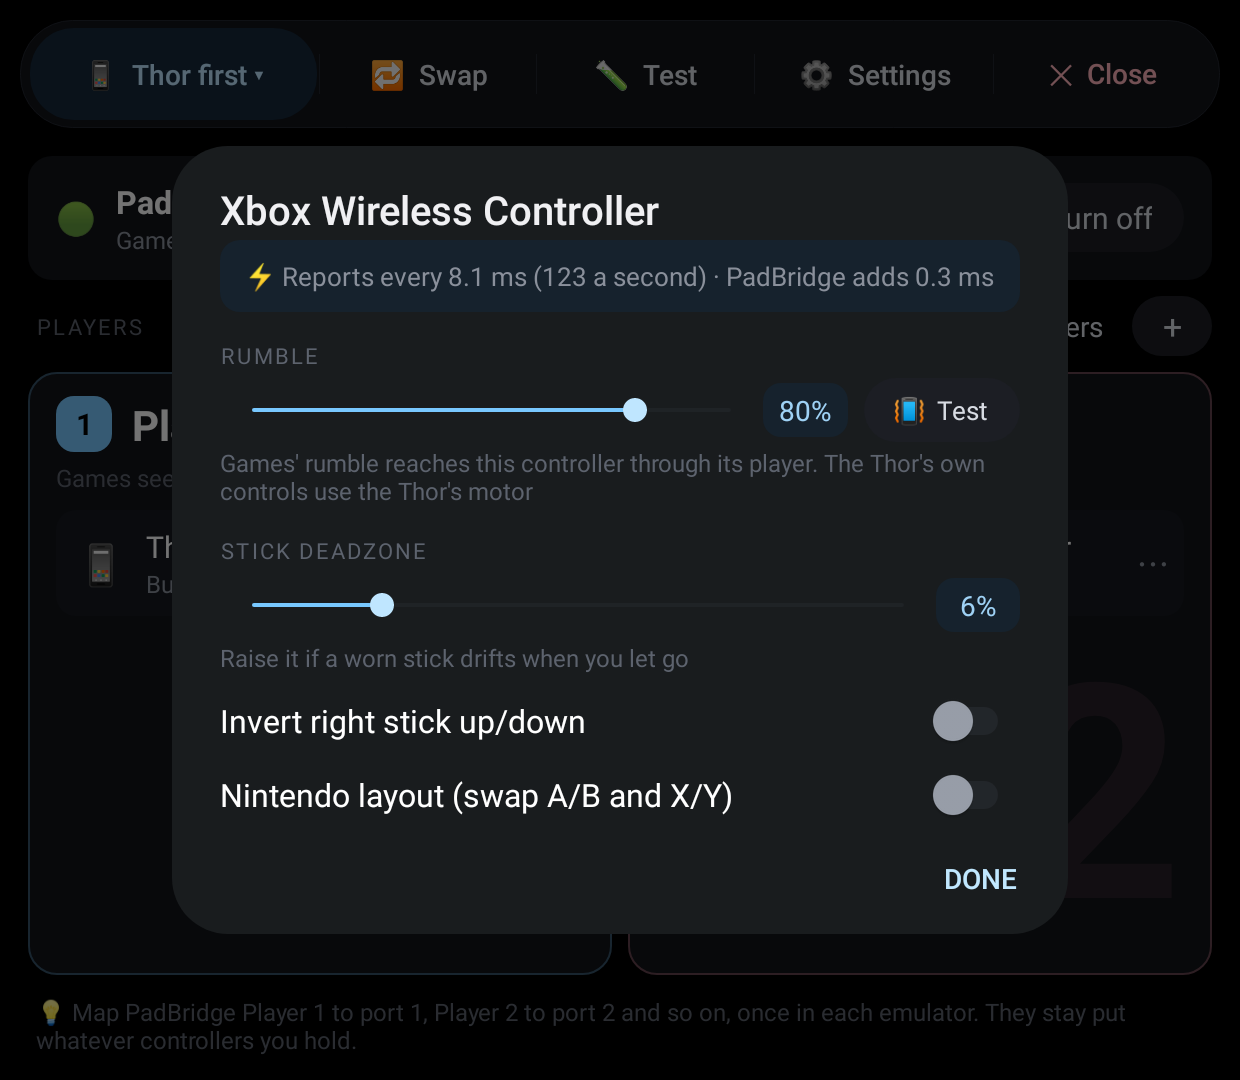
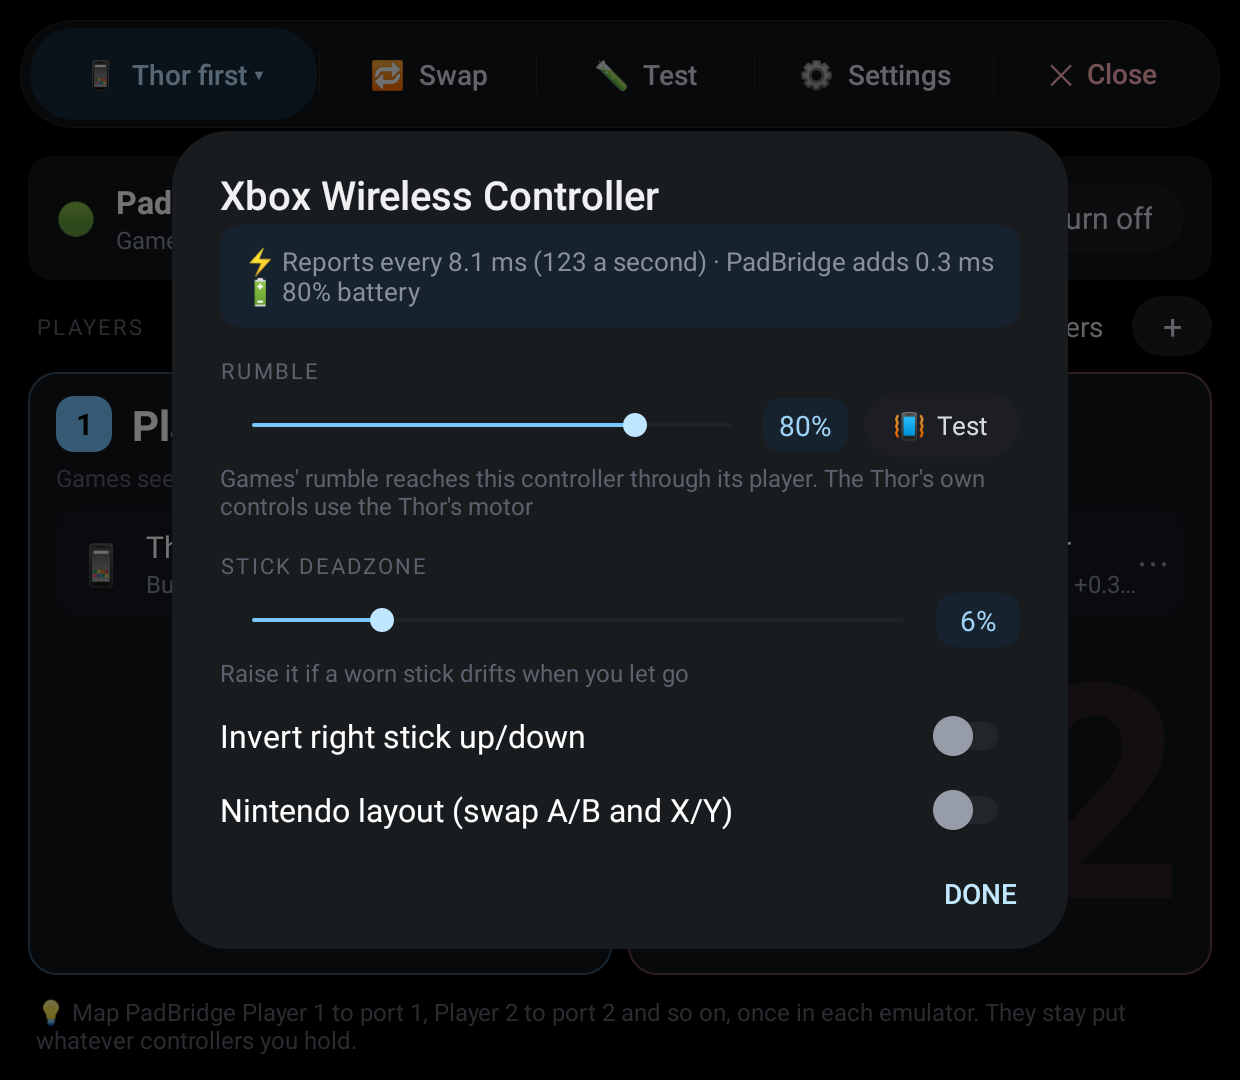
1.0.4: controller battery on the cards, low battery notice (#5)
* PadBridge 1.0: Thor controls and external controllers at once, with fixed players

A Shizuku-started engine takes over the Thor's built-in controls and any
connected controllers and drives virtual "PadBridge Player 1-4" pads made
with Android's uinput tool, so emulators keep one mapping whatever
controller is in use. Thor first / Controller first / Both Player 1 modes,
Swap, per-controller pins and Nintendo layout, a live controller test on
the top screen, and ThorPad-style Settings, haptics and updates.

Claude-Session: https://claude.ai/code/session_01QHzaHtdzWEgjSKUpixgTQA

* Up to 8 players: player grid, players stepper, tap-two swap, number chips

- MAX_PLAYERS 4 -> 8, with eight player colors
- Main screen: 2 side by side, 3 in a row, 4 in a square, 5-8 in two rows of mini cards
- PLAYERS - / + sets how many player pads are always ready; the engine removes spare pads when lowered
- Swap with more than two players: tap two players to swap (pins their controllers)
- Controller menu: a numbered chip per player instead of a long list
- Test screen fits up to 8 pads; engine test for an 8-player party
- README, release notes and screenshots (four, eight, swap)

Claude-Session: https://claude.ai/code/session_01QHzaHtdzWEgjSKUpixgTQA

* Rumble, per-controller settings, speed readout, About and license

- Rumble: player pads register with ff_effects_max; the engine reads the uinput tool's
[…]

diff --git a/app/src/main/java/com/padbridge/Engine.java b/app/src/main/java/com/padbridge/Engine.java
@@ -29,7 +29,7 @@ import org.json.JSONObject;
  */
 public final class Engine implements PhysicalPad.Listener, VirtualPads.Listener {
     /** Bumped when the engine changes; the app restarts an engine that doesn't match. */
-    static final int VERSION = 6;
+    static final int VERSION = 7;
     /** struct input_event: 24 bytes with 64-bit timestamps, 16 with 32-bit ones. */
     static final int EVENT_SIZE = System.getProperty("os.arch", "").contains("64") ? 24 : 16;
     private static final int BITS_PER_WORD = EVENT_SIZE == 24 ? 64 : 32;
@@ -138,11 +138,39 @@ public final class Engine implements PhysicalPad.Listener, VirtualPads.Listener 
                     log("scan failed: " + e);
                 }
             }
+            if (tick % 20 == 0) readBatteries();
             writeStatus(false);
             tick++;
             sleep(500);
         }
         shutdown();
+    }
+
+    /** Low: the notice shows at or below this, and clears once the controller charges past OK. */
+    static final int BATTERY_LOW = 15, BATTERY_OK = 25;
+
+    /** Reads every controller's battery (every 10 s), and gives notice when one runs low. */
+    private void readBatteries() {
+        List<PhysicalPad> list;
+        synchronized (this) {
+            list = new ArrayList<>(pads.values());
+        }
+        for (PhysicalPad p : list) {
+            if (p.builtin) continue; // the Thor's own battery is the Thor's
+            Battery b = Battery.read(p.dev.sysfs);
+            p.battery = b;
+            if (b == null || b.percent < 0) continue;
+            if (b.charging || b.percent > BATTERY_OK) {
+                p.warnedLow = false;
+            } else if (b.percent <= BATTERY_LOW && !p.warnedLow) {
+                p.warnedLow = true;
+                log("low battery: " + p.dev.name + " " + b.percent + "%");
+                String who = p.player > 0 ? "Player " + p.player + "'s " + p.dev.name : p.dev.name;
+                exec("cmd", "notification", "post", "-S", "bigtext", "-t", "🔋 Controller battery low",
+                        "padbridge-battery-" + Math.abs(p.dev.key().hashCode()),
+                        who + " is at " + b.percent + "%. Charge it soon");
+            }
+        }
     }
 
     private void shutdown() {
@@ -330,6 +358,11 @@ public final class Engine implements PhysicalPad.Listener, VirtualPads.Listener 
                     d.put("intervalMs", Math.round(p.intervalMs * 10) / 10.0);
                     d.put("addedMs", Math.round(p.addedMs * 100) / 100.0);
                     d.put("cantRumble", p.cantRumble && !p.builtin);
+                    Battery b = p.battery;
+                    if (b != null) {
+                        d.put("battery", b.percent);
+                        d.put("charging", b.charging);
+                    }
                     list.put(d);
                 }
             }

diff --git a/app/src/main/java/com/padbridge/Battery.java b/app/src/main/java/com/padbridge/Battery.java
@@ -1,0 +1,74 @@
+package com.padbridge;
+
+import java.io.File;
+
+/**
+ * A controller's battery, as its Linux driver reports it: a power_supply folder next to the
+ * controller's input device in /sys (Bluetooth HID, PlayStation, Switch Pro and Xbox drivers
+ * all add one). Read by the engine, which can see /sys.
+ */
+final class Battery {
+    private Battery() {}
+
+    /** Percent, or -1 when the controller doesn't report one. */
+    int percent = -1;
+    boolean charging;
+
+    /** sysfs is the device's "Sysfs=" path from /proc/bus/input/devices. Null if no battery. */
+    static Battery read(String sysfs) {
+        if (sysfs == null || sysfs.isEmpty()) return null;
+        return near(new File("/sys" + sysfs));
+    }
+
+    /** The battery near an input device's folder in /sys. */
+    static Battery near(File dir) {
+        // .../<hid device>/input/inputN: the power_supply folder sits on the HID device or above.
+        for (int up = 0; up < 4; up++) {
+            dir = dir.getParentFile();
+            if (dir == null) break;
+            File[] supplies = new File(dir, "power_supply").listFiles();
+            if (supplies == null) continue;
+            for (File s : supplies) {
+                // A controller's battery says it powers a device, not the system.
+                String scope = text(new File(s, "scope"));
+                if (scope != null && !"Device".equals(scope)) continue;
+                Battery b = new Battery();
+                b.percent = percent(s);
+                if (b.percent < 0) continue;
+                String status = text(new File(s, "status"));
+                b.charging = "Charging".equals(status) || "Full".equals(status);
+                return b;
+            }
+        }
+        return null;
+    }
+
+    private static int percent(File supply) {
+        String capacity = text(new File(supply, "capacity"));
+        if (capacity != null) {
+            try {
+                return Math.max(0, Math.min(100, Integer.parseInt(capacity)));
+            } catch (NumberFormatException ignored) {
+            }
+        }
+        // Some drivers only give a level.
+        String level = text(new File(supply, "capacity_level"));
+        if (level == null) return -1;
+        switch (level) {
+            case "Full": return 100;
+            case "High": return 80;
+            case "Normal": return 55;
+            case "Low": return 20;
+            case "Critical": return 5;
+            default: return -1;
+        }
+    }
+
+    private static String text(File f) {
+        try {
+            return new String(java.nio.file.Files.readAllBytes(f.toPath()), java.nio.charset.StandardCharsets.UTF_8).trim();
+        } catch (java.io.IOException | RuntimeException e) {
+            return null;
+        }
+    }
+}

diff --git a/test/EngineTest.java b/test/EngineTest.java
@@ -18,6 +18,8 @@ public class EngineTest {
         routesPlayers();
         controllerSettings();
         playerPadsReportChanges();
+        thorSystemKeys();
+        readsBatteries();
         if (failures > 0) {
             System.out.println(failures + " FAILED");
             System.exit(1);
@@ -278,6 +280,31 @@ public class EngineTest {
     }
 
     static boolean near(float a, float b) { return Math.abs(a - b) < 0.01f; }
+
+    static void thorSystemKeys() {
+        check("Back is Android's", Evdev.isSystemKey(Evdev.KEY_BACK));
+        check("Home is Android's", Evdev.isSystemKey(Evdev.KEY_HOMEPAGE));
+        check("Select is a player's", !Evdev.isSystemKey(Evdev.BTN_SELECT));
+    }
+
+    static void readsBatteries() throws Exception {
+        List<InputScan.Device> devs = InputScan.parseProcDevices(PROC, 64);
+        check("sysfs parsed", "/devices/x".equals(devs.get(1).sysfs));
+        java.nio.file.Path root = java.nio.file.Files.createTempDirectory("pb");
+        java.nio.file.Path hid = root.resolve("0005:045E:0B13.0001");
+        java.nio.file.Path input = java.nio.file.Files.createDirectories(hid.resolve("input/input5"));
+        check("no battery", Battery.near(input.toFile()) == null);
+        java.nio.file.Path supply = java.nio.file.Files.createDirectories(hid.resolve("power_supply/hid-44:16-battery"));
+        java.nio.file.Files.write(supply.resolve("capacity"), "42\n".getBytes());
+        java.nio.file.Files.write(supply.resolve("status"), "Discharging\n".getBytes());
+        java.nio.file.Files.write(supply.resolve("scope"), "Device\n".getBytes());
+        Battery b = Battery.near(input.toFile());
+        check("battery 42%", b != null && b.percent == 42 && !b.charging);
+        java.nio.file.Files.write(supply.resolve("status"), "Charging\n".getBytes());
+        check("charging", Battery.near(input.toFile()).charging);
+        java.nio.file.Files.write(supply.resolve("scope"), "System\n".getBytes());
+        check("the system's battery isn't a controller's", Battery.near(input.toFile()) == null);
+    }
 
     static void check(String what, boolean ok) {
         if (!ok) {

diff --git a/app/src/main/java/com/padbridge/PhysicalPad.java b/app/src/main/java/com/padbridge/PhysicalPad.java
@@ -30,6 +30,13 @@ final class PhysicalPad {
      * PadBridge takes from a report to passing it to the player pad. Averages; 0 until known.
      */
     volatile float intervalMs, addedMs;
+    /** Its battery, or null if it doesn't report one; read now and then by the engine. */
+    volatile Battery battery;
+    long batteryReadAt;
+    /** The low battery notice was shown, until it charges again. */
+    boolean warnedLow;
+    /** The Thor's key codes already written to the log, to diagnose its buttons. */
+    private final java.util.BitSet loggedKeys = new java.util.BitSet();
     /** It turned down a rumble effect. */
     volatile boolean cantRumble;
     private boolean monotonic;
@@ -91,6 +98,12 @@ final class PhysicalPad {
                             int code = (buf[p + 2] & 0xff) | (buf[p + 3] & 0xff) << 8;
                             int value = (buf[p + 4] & 0xff) | (buf[p + 5] & 0xff) << 8
                                     | (buf[p + 6] & 0xff) << 16 | buf[p + 7] << 24;
+                            if (builtin && type == Evdev.EV_KEY && value == 1 && !loggedKeys.get(code)) {
+                                // Which key each of the Thor's buttons sends, once each, for diagnostics.
+                                loggedKeys.set(code);
+                                Engine.log("Thor button: key " + code + (Evdev.isSystemKey(code) ? " (to Android)"
+                                        : mapper.button(code) >= 0 ? "" : " (not used)"));
+                            }
                             if (builtin && type == Evdev.EV_KEY && Evdev.isSystemKey(code)) {
                                 // Held-key repeats (value 2) aren't needed: Android times long presses itself.
                                 if (value != 2) listener.onSystemKey(code, value != 0);

diff --git a/app/src/main/java/com/padbridge/ControllerSettings.java b/app/src/main/java/com/padbridge/ControllerSettings.java
@@ -47,7 +47,10 @@ final class ControllerSettings {
         final Handler handler = new Handler(Looper.getMainLooper());
         final Runnable tick = new Runnable() {
             @Override public void run() {
-                speed.setText(speedText(find(a, key)));
+                EngineControl.Controller ctl = find(a, key);
+                String battery = ctl == null ? "" : battery(ctl);
+                speed.setText(speedText(ctl) + (battery.isEmpty() ? "" : "\n" + battery + " battery"
+                        + (ctl.charging ? ", charging" : lowBattery(ctl) ? ", charge it soon" : "")));
                 handler.postDelayed(this, 700);
             }
         };
@@ -146,6 +149,16 @@ final class ControllerSettings {
     static String shortSpeed(EngineControl.Controller ctl) {
         if (!ctl.active || ctl.intervalMs <= 0) return "";
         return String.format(Locale.US, "⚡ %.0f ms · +%s", ctl.intervalMs, added(ctl.addedMs));
+    }
+
+    /** The battery, on the controller's card: "🔋 80%", "🔌 80%" charging, "🔋 12% low". Empty if unknown. */
+    static String battery(EngineControl.Controller ctl) {
+        if (ctl.battery < 0) return "";
+        return (ctl.charging ? "🔌 " : "🔋 ") + ctl.battery + "%" + (lowBattery(ctl) ? " low" : "");
+    }
+
+    static boolean lowBattery(EngineControl.Controller ctl) {
+        return ctl.battery >= 0 && !ctl.charging && ctl.battery <= Engine.BATTERY_LOW;
     }
 
     private static String added(double ms) {

diff --git a/app/src/main/java/com/padbridge/MainActivity.java b/app/src/main/java/com/padbridge/MainActivity.java
@@ -482,11 +482,14 @@ public class MainActivity extends Activity implements ShizukuClient.Listener {
             wlp.leftMargin = (int) (6 * d);
             row.addView(words, wlp);
             if (prefs.pin(ctl.key) > 0) row.addView(Ui.plain(this, "📌", 10, Color.WHITE));
+            if (ControllerSettings.lowBattery(ctl)) row.addView(Ui.plain(this, "🔋", 10, Color.WHITE));
             if (!ctl.error.isEmpty()) row.addView(Ui.plain(this, "⚠", 10, Color.WHITE));
             return finishRow(row, ctl, 4);
         }
         List<String> notes = new ArrayList<>();
         notes.add(ctl.builtin ? "Built-in" : ctl.connection);
+        String battery = ControllerSettings.battery(ctl);
+        if (!battery.isEmpty()) notes.add(battery);
         if (prefs.pin(ctl.key) > 0) notes.add("📌 Always here");
         if (prefs.nintendo(ctl.key)) notes.add("A/B swapped");
         String speed = ControllerSettings.shortSpeed(ctl);

diff --git a/app/src/main/java/com/padbridge/EngineControl.java b/app/src/main/java/com/padbridge/EngineControl.java
@@ -35,6 +35,9 @@ final class EngineControl {
         int player;
         /** ms between reports, and ms PadBridge adds; 0 until known. */
         double intervalMs, addedMs;
+        /** Battery percent, or -1 when it doesn't report one. */
+        int battery = -1;
+        boolean charging;
     }
 
     /** What the engine last reported. */
@@ -91,6 +94,8 @@ final class EngineControl {
                 c.intervalMs = d.optDouble("intervalMs", 0);
                 c.addedMs = d.optDouble("addedMs", 0);
                 c.cantRumble = d.optBoolean("cantRumble");
+                c.battery = d.optInt("battery", -1);
+                c.charging = d.optBoolean("charging");
                 s.controllers.add(c);
             }
         } catch (JSONException ignored) {

diff --git a/app/src/main/java/com/padbridge/InputScan.java b/app/src/main/java/com/padbridge/InputScan.java
@@ -22,7 +22,7 @@ final class InputScan {
 
     /** One /dev/input/event node. */
     static final class Device {
-        String path = "", name = "", phys = "", uniq = "";
+        String path = "", name = "", phys = "", uniq = "", sysfs = "";
         int bus, vendor, product;
         final BitSet keys = new BitSet();
         final BitSet absBits = new BitSet();
@@ -81,6 +81,9 @@ final class InputScan {
                     break;
                 case 'P':
                     dev.phys = after(body, "Phys=");
+                    break;
+                case 'S':
+                    dev.sysfs = after(body, "Sysfs=");
                     break;
                 case 'U':
                     dev.uniq = after(body, "Uniq=");

diff --git a/README.md b/README.md
@@ -17,19 +17,19 @@ top screen.
 
 | 🎮 Players, on the bottom screen | 👆 Who is Player 1 |
 |---|---|
-| <img src="docs/screenshots/main.png?v=1.0" width="400" alt="Main screen: Player 1 with the Thor's controls, Player 2 with an Xbox controller, and the menu pill on top"> | <img src="docs/screenshots/mode-menu.png?v=1.0" width="400" alt="Mode menu: Thor first, Controller first, or Both Player 1"> |
+| <img src="docs/screenshots/main.png?v=1.0.4" width="400" alt="Main screen: Player 1 with the Thor's controls, Player 2 with an Xbox controller, and the menu pill on top"> | <img src="docs/screenshots/mode-menu.png?v=1.0.4" width="400" alt="Mode menu: Thor first, Controller first, or Both Player 1"> |
 | 🕹 A controller's menu | 🤝 Both Player 1 |
-| <img src="docs/screenshots/controller-menu.png?v=1.0" width="400" alt="A controller's menu: always Player 1 to 4, automatic, leave it to Android, Nintendo layout, Thor's own controls"> | <img src="docs/screenshots/shared.png?v=1.0" width="400" alt="Both Player 1: the Thor and an Xbox controller on Player 1, an 8BitDo controller on Player 2"> |
+| <img src="docs/screenshots/controller-menu.png?v=1.0.4" width="400" alt="A controller's menu: always Player 1 to 4, automatic, leave it to Android, Nintendo layout, Thor's own controls"> | <img src="docs/screenshots/shared.png?v=1.0.4" width="400" alt="Both Player 1: the Thor and an Xbox controller on Player 1, an 8BitDo controller on Player 2"> |
 | 👥 Four players | 🎉 Up to eight |
-| <img src="docs/screenshots/four.png?v=1.0" width="400" alt="Four players: the Thor's controls, an Xbox, an 8BitDo and a DualSense controller, one per card"> | <img src="docs/screenshots/eight.png?v=1.0" width="400" alt="Eight players in two rows of four, six of them with a controller"> |
+| <img src="docs/screenshots/four.png?v=1.0.4" width="400" alt="Four players: the Thor's controls, an Xbox, an 8BitDo and a DualSense controller, one per card"> | <img src="docs/screenshots/eight.png?v=1.0.4" width="400" alt="Eight players in two rows of four, six of them with a controller"> |
 | 🔁 Swapping with more than two | 🧪 Controller test (top screen) |
-| <img src="docs/screenshots/swap.png?v=1.0" width="400" alt="Swap with four players: Player 1 is picked, tap the player to swap with"> | <img src="docs/screenshots/test.png?v=1.0" width="400" alt="Controller test on the top screen with Player 1 and Player 2 drawn live"> |
+| <img src="docs/screenshots/swap.png?v=1.0.4" width="400" alt="Swap with four players: Player 1 is picked, tap the player to swap with"> | <img src="docs/screenshots/test.png?v=1.0.4" width="400" alt="Controller test on the top screen with Player 1 and Player 2 drawn live"> |
 | 🚀 First-run setup | ⚙ Settings |
-| <img src="docs/screenshots/setup.png?v=1.0" width="400" alt="Setup steps: install Shizuku, start it, allow PadBridge"> | <img src="docs/screenshots/settings.png?v=1.0" width="400" alt="Settings, Players tab: who is Player 1, players always ready, player pad type"> |
+| <img src="docs/screenshots/setup.png?v=1.0.4" width="400" alt="Setup steps: install Shizuku, start it, allow PadBridge"> | <img src="docs/screenshots/settings.png?v=1.0.4" width="400" alt="Settings, Players tab: who is Player 1, players always ready, player pad type"> |
 | 🕹 Controllers | 🎛 A controller's settings |
-| <img src="docs/screenshots/controllers.png?v=1.0" width="400" alt="Settings, Controllers tab: each controller seen, with its player, rumble and stick settings, Thor's own controls and Forget"> | <img src="docs/screenshots/controller-settings.png?v=1.0" width="400" alt="A controller's settings: how quickly it reports, rumble strength with a test button, stick deadzone, invert right stick, Nintendo layout"> |
+| <img src="docs/screenshots/controllers.png?v=1.0.4" width="400" alt="Settings, Controllers tab: each controller seen, with its player, rumble and stick settings, Thor's own controls and Forget"> | <img src="docs/screenshots/controller-settings.png?v=1.0.4" width="400" alt="A controller's settings: how quickly it reports, rumble strength with a test button, stick deadzone, invert right stick, Nintendo layout"> |
 | ℹ About | |
-| <img src="docs/screenshots/about.png?v=1.0" width="400" alt="Settings, About tab: version, the MIT license and thanks"> | |
+| <img src="docs/screenshots/about.png?v=1.0.4" width="400" alt="Settings, About tab: version, the MIT license and thanks"> | |
 
 The screenshots are drawn from PadBridge's own code with made-up controllers.
 
@@ -59,6 +59,9 @@ Once it's on, you can close PadBridge: it keeps running.
   times a second) and how long PadBridge takes to pass a report on (usually well under a
   millisecond). The time a wireless controller takes to reach the Thor can't be seen from
   software, but a slow report rate is a good sign of a laggy connection.
+- 🔋 **Battery:** each controller's card shows its battery (🔌 while charging), and the Thor
+  gives a notice when one drops to 15%, so it doesn't die mid-game. Shown for controllers whose
+  driver reports a battery, which most Bluetooth controllers do.
 - 📳 **Rumble:** when a game rumbles a player, PadBridge rumbles that player's controllers. The
   Thor's own controls rumble with the Thor's motor.
 - 🧪 **Test** opens the controller test on the top screen: every player pad drawn live, so you
@@ -173,7 +176,7 @@ report) can be checked on a desktop JVM, no Android needed:
 
 ```
 javac -d build/test -cp deps/android-all-14-robolectric-10818077.jar \
-    app/src/main/java/com/padbridge/{Evdev,PadState,InputScan,PadMapper,Routing,PlayerPad}.java test/EngineTest.java
+    app/src/main/java/com/padbridge/{Evdev,PadState,InputScan,PadMapper,Routing,PlayerPad,Battery}.java test/EngineTest.java
 java -cp build/test:deps/android-all-14-robolectric-10818077.jar com.padbridge.EngineTest
 ```
 

diff --git a/release/notes.md b/release/notes.md
@@ -1,8 +1,9 @@
-🏠 PadBridge 1.0.3: the Thor's Back and Home buttons work again while PadBridge is on.
+🔋 PadBridge 1.0.4: see every controller's battery, and get a heads-up before one dies.
 
-## ✨ What's new in 1.0.3
-- 🏠 **Back and Home work:** while PadBridge holds the Thor's controls, its Back and Home buttons now go to Android, as they should, instead of to Player 1
-- 🔢 **Players in order:** after changing the number of players, Android could number Player 2 before Player 1, which showed up in emulators as "Player 2 1, Player 1 2". PadBridge now waits for the old pads to be gone, so the numbers line up
+## ✨ What's new in 1.0.4
+- 🔋 **Battery on the cards:** each controller's card shows its battery, with 🔌 while it charges. Its settings show it too
+- 🔔 **Low battery notice:** when a controller drops to 15%, the Thor tells you which player it is, once, until it charges
+- 🔍 **Diagnostics:** PadBridge's log now notes which key each of the Thor's buttons sends, to track down button problems
 
 ---
 
@@ -15,12 +16,14 @@ PadBridge bridges the Thor's controls and your controllers onto steady player co
 - 📌 **Fixed players:** pin a controller to a player, or leave it to Android
 - 📳 **Rumble:** games' rumble reaches your controllers, and the Thor's motor for its own controls
 - 🎛 **Per-controller settings:** rumble strength, stick deadzone, invert right stick and Nintendo layout
+- 🔋 **Battery:** each controller's battery on its card, with a notice when one runs low
 - ⚡ **Speed readout:** how often each controller reports, and how little PadBridge adds
 - 🧪 **Controller test:** every player drawn live on the top screen
 - 📳 **Haptics:** pick a feel and strength for every action
 - 🔄 **Updates:** check, see what's new, and install from Settings, or reinstall the current release
 
 ## 📜 Release history
+- **1.0.4:** controller battery on the cards, with a low battery notice
 - **1.0.3:** the Thor's Back and Home buttons work, and players stay in order
 - **1.0.2:** the number of players always matches, and roomier player cards
 - **1.0.1:** no more duplicate player pads
